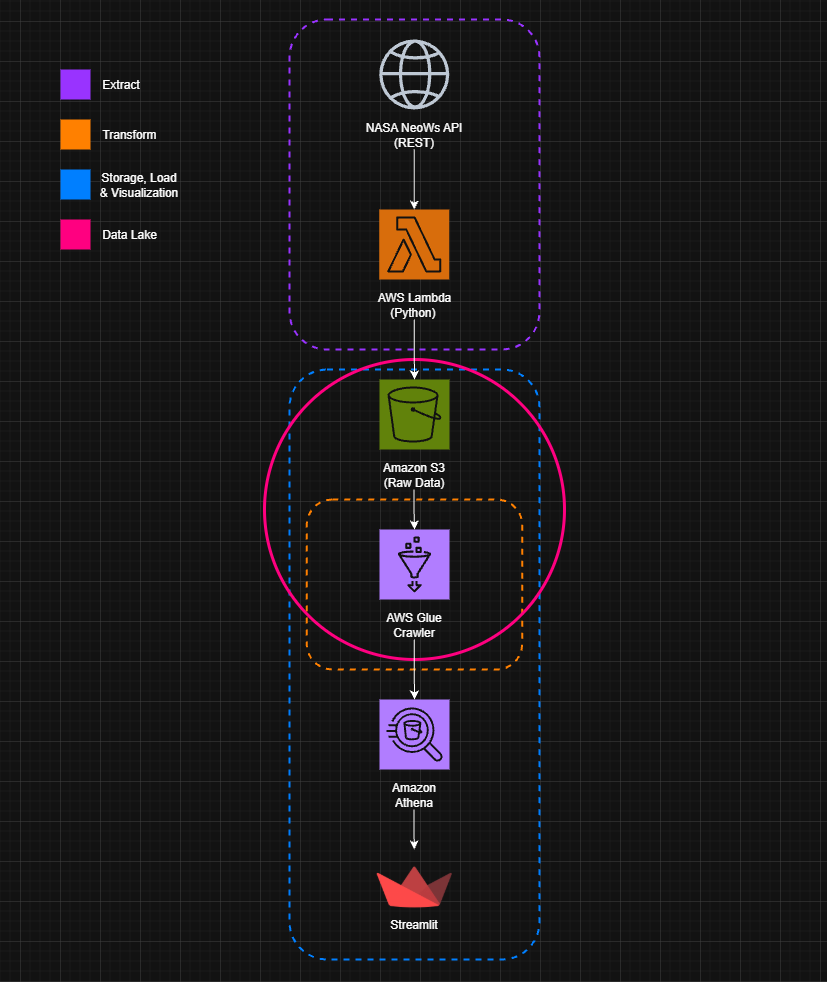
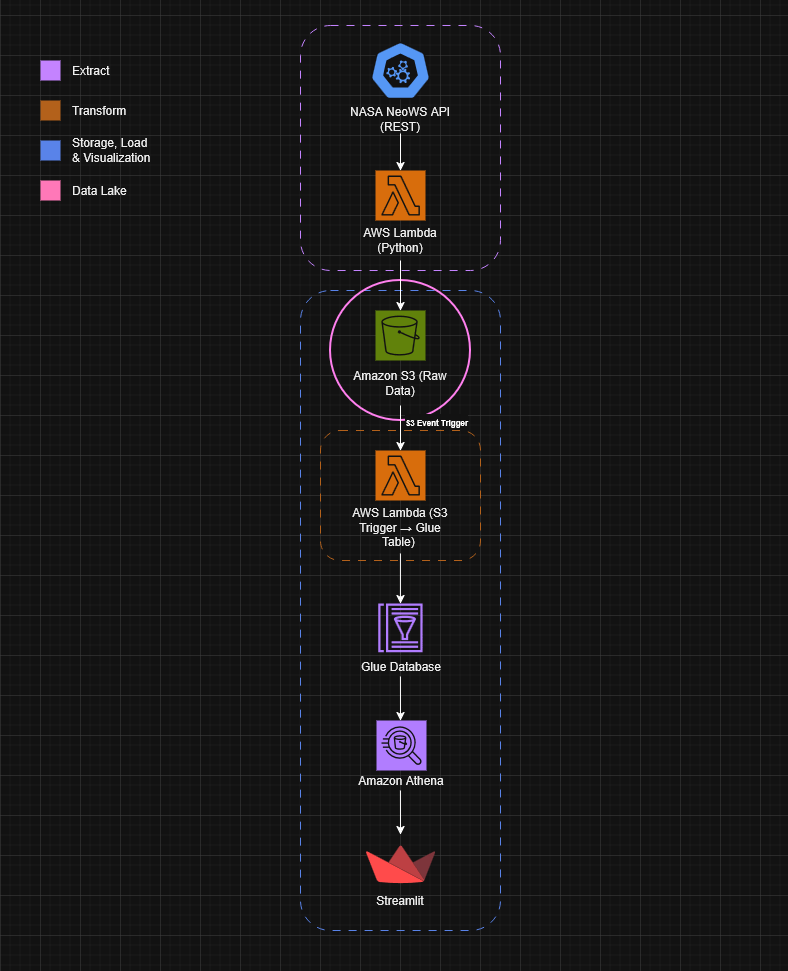
AWS logic change + add new architecture diagram + update documentation

diff --git a/README.md b/README.md
@@ -6,11 +6,12 @@ This repository contains a **serverless, real-time ETL data pipeline and interac
 
 **Key features:**
 
-* **Live NASA API Integration:** Automatically fetches daily asteroid data from [NASA NeoWs](https://api.nasa.gov/).
-* **AWS Data Lake Architecture:** Serverless ingestion and storage of raw data to Amazon S3 in Athena-compatible `ndjson` format.
-* **Athena SQL Queries:** Analytical queries using Amazon Athena with AWS Glue for schema detection.
-* **Interactive Dashboard:** View asteroid data by date, risk level, velocity, size, and proximity through a custom [Streamlit Dashboard](https://nasa-asteroids.streamlit.app/).
-  
+- **Live NASA API Integration:** Automatically fetches daily asteroid data from [NASA NeoWs](https://api.nasa.gov/).
+- **AWS Data Lake Architecture:** Serverless ingestion and storage of raw data to Amazon S3 in Athena-compatible `ndjson` format.
+- **Event-Driven Cataloging:** An S3-triggered Lambda automatically registers new data in the AWS Glue Data Catalog, eliminating the need for a Glue Crawler.
+- **Athena SQL Queries:** Analytical queries using Amazon Athena over the Glue Data Catalog table.
+- **Interactive Dashboard:** View asteroid data by date, risk level, velocity, size, and proximity through a custom [Streamlit Dashboard](https://nasa-asteroids.streamlit.app/).
+
 ---
 
 ## Pipeline Overview
@@ -21,12 +22,12 @@ This repository contains a **serverless, real-time ETL data pipeline and interac
 
 ## Technologies Used
 
-| Layer       | Tool/Service           | Details                                |
-|-------------|------------------------|----------------------------------------|
-| Ingestion   | `AWS Lambda`           | Python-based function triggered daily  |
-| Storage     | `Amazon S3`            | NDJSON-based file storage              |
-| ETL / Schema| `AWS Glue`             | Crawls & catalogs JSON for Athena      |
-| Query Layer | `Amazon Athena`        | Serverless SQL analytics engine        |
-| Scheduling  | `Amazon EventBridge`   | Daily automated trigger                |
-| Viz/Frontend| `Streamlit Cloud`      | Visual UI for filtering asteroid data  |
-
+| Layer        | Tool/Service            | Details                                                |
+| ------------ | ----------------------- | ------------------------------------------------------ |
+| Ingestion    | `AWS Lambda`            | Python-based function triggered daily                  |
+| Storage      | `Amazon S3`             | NDJSON-based file storage                              |
+| Cataloging   | `AWS Lambda`            | S3-triggered function that writes to Glue Data Catalog |
+| Schema       | `AWS Glue Data Catalog` | Stores table metadata for Athena                       |
+| Query Layer  | `Amazon Athena`         | Serverless SQL analytics engine                        |
+| Scheduling   | `Amazon EventBridge`    | Daily automated trigger                                |
+| Viz/Frontend | `Streamlit Cloud`       | Visual UI for filtering asteroid data                  |
